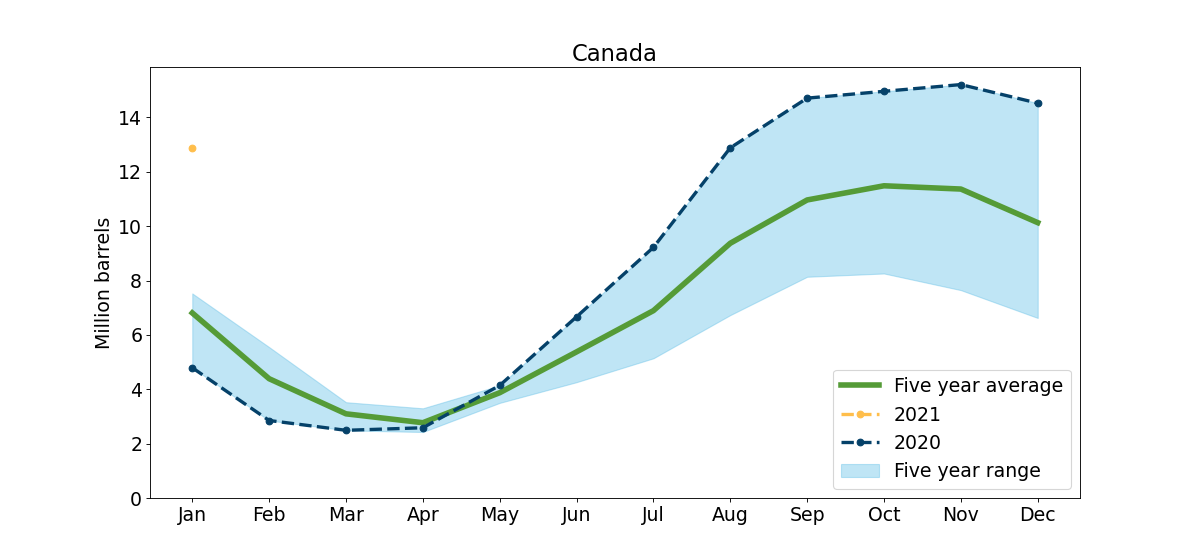
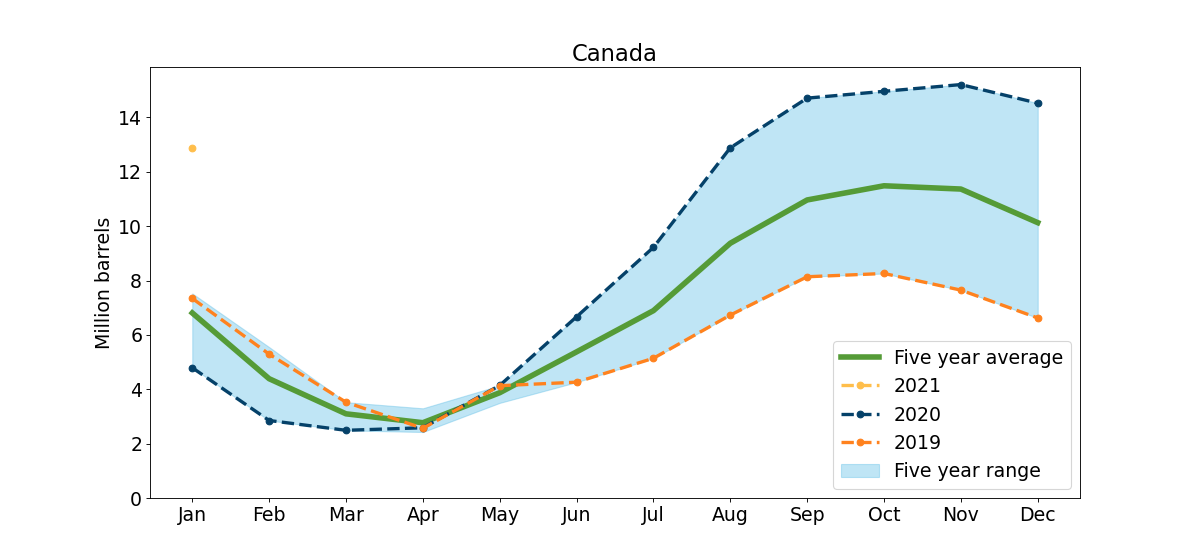
added product switching

diff --git a/templates/index.html b/templates/index.html
@@ -28,7 +28,7 @@
         <div class="col">
           <form action="/region" method="POST">
             <div class="row">
-              <div class="col-3 ngl-input">
+              <div class="col-3">
                 {% for r in region_list %} {% if r == region %}
 
                 <input
@@ -51,7 +51,7 @@
 
                 {% endfor %}
               </div>
-              <div class="col-3 ngl-input">
+              <div class="col-3 ngl-input" style="width: 200px">
                 {% for y in year_list %} {% if y[-1]%}
                 <input
                   type="checkbox"
@@ -71,7 +71,27 @@
                 <label for="year+{{y[0]}}">{{y[0]}}</label><br />
                 {% endfor %}
               </div>
-              <div class="col-6">
+              <div class="col-3">
+                {% for p in product_list %} {% if p[-1]%}
+                <input
+                  type="radio"
+                  id="{{p[0]}}"
+                  name="product"
+                  value="{{p[0]}}"
+                  checked="checked"
+                />
+                {% else %}
+                <input
+                  type="radio"
+                  id="{{p[0]}}"
+                  name="product"
+                  value="{{p[0]}}"
+                />
+                {% endif %}
+                <label for="{{p[0]}}">{{p[0]}}</label><br />
+                {% endfor %}
+              </div>
+              <div class="col-3">
                 <input type="submit" />
               </div>
             </div>

diff --git a/inventory_charts.py b/inventory_charts.py
@@ -5,6 +5,7 @@ from matplotlib import pyplot as plt
 from dateutil.relativedelta import relativedelta
 import os
 import ssl
+import math
 ssl._create_default_https_context = ssl._create_unverified_context
 script_dir = os.path.dirname(__file__)
 headers = {'User-Agent': 'Mozilla/5.0 (Macintosh; Intel Mac OS X 10_10_1) AppleWebKit/537.36 (KHTML, like Gecko) Chrome/39.0.2171.95 Safari/537.36'}
@@ -12,13 +13,6 @@ headers = {'User-Agent': 'Mozilla/5.0 (Macintosh; Intel Mac OS X 10_10_1) AppleW
 
 plt.rcParams.update({'font.size': 17})
 
-cer_products = ['Spec. propane',
-                'Total butane',
-                'Total mix',
-                'C2 in mix',
-                'C3 in mix',
-                'C4 in mix',
-                'Other in mix']
 
 CER = {'Sun': '#FFBE4B',
        'Night Sky': '#054169',
@@ -26,7 +20,6 @@ CER = {'Sun': '#FFBE4B',
        'Forest': '#559B37',
        'Flame': '#FF821E',
        'Aubergine': '#871455',
-       'White': '#FFFFFF',
        'Dim Grey': '#8c8c96',
        'Cool Grey': '#42464B'}
 
@@ -119,6 +112,7 @@ def scrape_cer(remote=False):
 
     # remove the french text and switch units to million barrels.
     df = df.rename(columns=english_only(df.columns))
+    df = df.rename(columns={'Total butane': 'Butane'})
     df['Region'] = df['Region'].replace(english_only(df['Region'].unique()))
     df = change_units(df)
     regions = create_regions(df)
@@ -132,6 +126,15 @@ def get_valid_years(regions, region, init=2):
     else:
         selected_years = all_years[:init]
     return [[y, True] if y in selected_years else [y, False] for y in all_years]
+
+
+def get_valid_product(products, new_product):
+    for p in products:
+        if p[0] == new_product:
+            p[-1] = True
+        else:
+            p[-1] = False
+    return products
 
 
 def filter_data(regions, region='US Midwest', product='Spec. propane', year=2019):
@@ -177,7 +180,14 @@ def graph(regions,
     # 3) plot the year lines
     if years == "init":
         years = get_valid_years(regions, region)
-    lineColorList = [c for c in CER.values() if c not in [fiveYearAvgColor, fiveYearRangeColor]]
+
+    if len(years) > len(CER.values()):
+        color_multiple = math.ceil(len(years)/len(CER.values()))
+        all_colors = list(CER.values())*color_multiple
+    else:
+        all_colors = CER.values()
+
+    lineColorList = [c for c in all_colors if c not in [fiveYearAvgColor, fiveYearRangeColor]]
     for colorIndex, y in enumerate(years):
         if y[-1]:
             add_year_line(y[0], ax, lineColorList[colorIndex])
@@ -197,5 +207,5 @@ def graph(regions,
 
 if __name__ == "__main__":
     regions = scrape_cer()
-    graph(regions, region='Canada', years="init")
+    graph(regions, product='Spec. propane', region='Canada', years="init")
     # all_graphs(regions,areas=['Eastern Canada','Western Canada'],lang='fra')

diff --git a/app.py b/app.py
@@ -1,16 +1,19 @@
 from flask import Flask, render_template, request
-from inventory_charts import scrape_cer, graph, get_valid_years
+from inventory_charts import scrape_cer, graph, get_valid_years, get_valid_product
 app = Flask(__name__)
 
 
 selected_region = "Canada"
+selected_product = "Spec. propane"
+products = [["Spec. propane", True], ["Butane", False]]
 current_units = "Million barrels"
 
 
 def on_load():
     # print('scraping CER')
-    regions = scrape_cer()
-    graph(regions, region=selected_region, years="init")
+    regions = scrape_cer(True)
+    graph(regions, product=selected_product,
+          region=selected_region, years="init")
     return regions
 
 
@@ -27,20 +30,23 @@ def index():
     return render_template("index.html",
                            region=selected_region,
                            region_list=regions.keys(),
-                           year_list=form_years)
+                           year_list=form_years,
+                           product_list=products)
 
 
 @app.route('/region', methods=['POST'])
 def button():
     if request.method == "POST":
         new_region = request.form["region"]
+        new_product = request.form["product"]
         new_years = [int(x) for x in request.form.getlist("year")]
         form_years = year_selection(new_years, regions)
-        graph(regions, region=new_region, years=form_years)
+        graph(regions, product=new_product, region=new_region, years=form_years)
         return render_template("index.html",  # TOOD: change this from "index.html" to something like "image.html" and only reload part of the page!
                                region=new_region,  # .replace(" ", ""),
                                region_list=regions.keys(),
-                               year_list=form_years)
+                               year_list=form_years,
+                               product_list=get_valid_product(products, new_product))
 
 
 if __name__ == '__main__':
